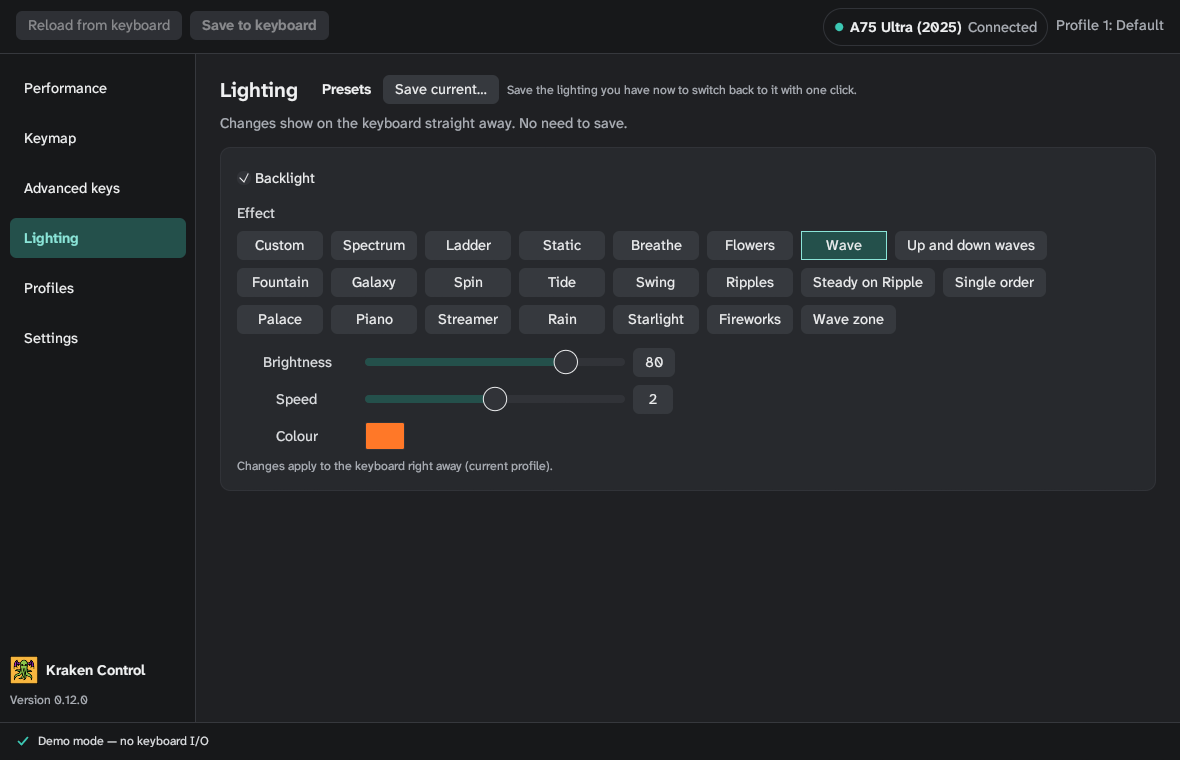
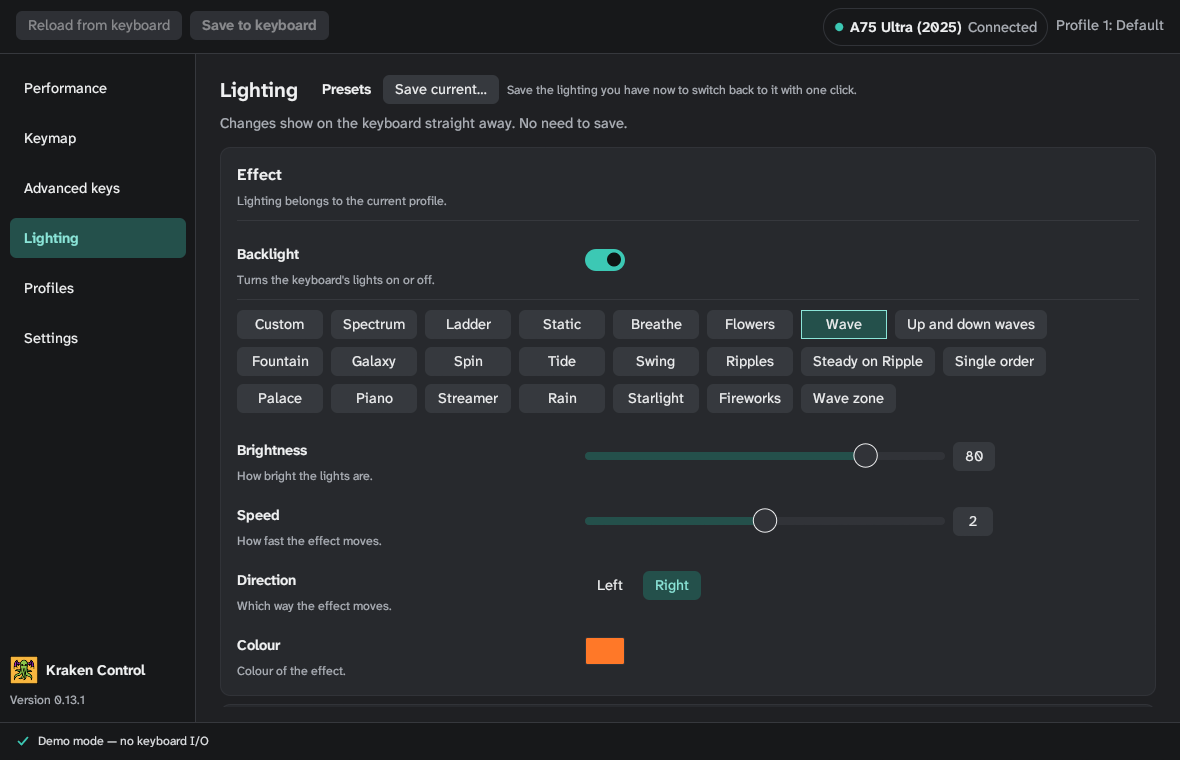
Release 0.13.1: date CHANGELOG, refresh 2025 A75 Ultra screenshots
Claude-Session: https://claude.ai/code/session_01UPyRyyRFiQ7m6pbWqDFTFT

diff --git a/docs/SESSION_SUMMARY.md b/docs/SESSION_SUMMARY.md
@@ -8,7 +8,7 @@ Current state and handoff. History is in PROGRESS.md.
 - Website live at https://ripdzl.github.io/Kraken-Control/ from `site/` (pages.yml). Light page + app Dark Grey surfaces, teal accent. Hero demo tabs: Simulate (drag keycap, gen-2 ranges) and Your keyboard (live keydown/keyup timeline; browsers can't read depth).
 - CI (`ci.yml`, Windows, stable Rust 1.99: clippy -D warnings + tests) green on `main`.
 - Local folder `drunkdeer-rs` on the user's PC is a git working copy (branch `dev`, no upstream set; `main` tracks origin/main).
-- Branch `dev` is on GitHub (pushed 2026-11-14 with the user's OK): unreleased work, ahead of `main`. Don't push `main`, tag, release or bump the version until the user says. Commits must use `228260327+ripDZL@users.noreply.github.com` (never the account email; GitHub email privacy is on).
+- Branch `dev` is on GitHub (pushed 2026-11-14 with the user's OK) for unreleased work; merge to `main`, tag, release or version bump only when the user says. Commits must use `228260327+ripDZL@users.noreply.github.com` (never the account email; GitHub email privacy is on).
 
 ## Workflow
 - Cloud: add_repo ripDZL/Kraken-Control, clone, edit, `cargo test` / clippy (cloud cargo 1.97; CI has newer lints), push `main`. User runs `git pull`.
@@ -30,12 +30,9 @@ Current state and handoff. History is in PROGRESS.md.
 - Gen-2 DKS / Rappy Snappy / One Key Switch editors and macros (2026-11-11): user ran build a655f15 on the 2025 A75 Ultra, "everything seems okay" (not itemised, no log). Check list in TODO "Web-driver parity".
 
 ## Handoff (2026-11-14)
-- GitHub `main` = 7d577ba (gen-2 live key depth). `origin/dev` = FN-layer advanced keys (f4bcc33), macro names (9f519ab), docs (f62ce98, 112fdfd: user's hardware OK for both), then the gen-2 UI overhaul commits of 2026-11-14.
-- Also 2026-11-14 on `dev`: six themes (Dark Grey, Dark, White, Colour-blind Dark / Light, Black-Plumb) and eight OFL fonts with a Font picker (Settings › Appearance); gen-2 Keymap outlines changed keys.
-- Version on `dev` = 0.13.1 (user: "this release will be 0.13.1"); CHANGELOG section `[0.13.1] - unreleased`. Not tagged, not merged to `main`; date the section and merge / tag only when the user says.
-- Done 2026-11-14 on `dev`: gen-2 Performance "Selected keys" / "Whole keyboard" cards (anti-shake + Adaptive Stable moved there from Settings), restyled gen-2 Keymap / Advanced (+ editors, macros) / Lighting / Settings. Demo-tested only.
-- User gets it with `git pull origin dev` on `dev` (their local `dev` = 112fdfd, a fast-forward); `git branch -u origin/dev` makes plain `git pull` work afterwards.
-- Next: user checks the TODO "Hardware (A75 Ultra 2025, `dev`)" UI list; optional same restyle for gen-1 Keymap / Advanced / Lighting editors. Merge to `main` / version bump / release only when the user says.
+- 0.13.1 merged to `main` (user: "lets update", 2026-11-14): fast-forward of `dev` (FN-layer advanced keys + macro keys, macro names, gen-2 UI overhaul, six themes, eight fonts). CHANGELOG `[0.13.1] - 2026-11-14`; README screenshots advanced-gen2 / lighting-gen2 retaken. `dev` = `main`.
+- Left for the user: push tag `v0.13.1` (session's git proxy refuses tags) -> Release workflow builds the DRAFT -> paste the CHANGELOG 0.13.1 entry into "What's new" -> Publish. Local copy: `git checkout main && git pull`.
+- Open checks: TODO "Hardware (A75 Ultra 2025, `dev`)" UI list and the Windows theme / font check.
 - Parked: Windows memory creep (TODO).
 
 ## Next

diff --git a/CHANGELOG.md b/CHANGELOG.md
@@ -2,7 +2,7 @@
 
 Notable changes to Kraken Control. Versions follow [Semantic Versioning](https://semver.org/).
 
-## [0.13.1] - unreleased
+## [0.13.1] - 2026-11-14
 
 - **Six themes:** Settings › Appearance now offers Dark Grey (default), Dark, White, Colour-blind Dark, Colour-blind Light and Black-Plumb. The colour-blind themes keep selected, unsaved, error and advanced-key colours apart with any type of colour blindness and mark selected keys with a thick outline. Changed keys on the Keymap page (2025 A75 Ultra) are now outlined, like on the original boards.
 - **Eight fonts:** Settings › Appearance › Font: Atkinson Hyperlegible Next, Inter, Roboto, Open Sans, Noto Sans, Fira Sans, Figtree and JetBrains Mono (all free, SIL Open Font License), or the theme's own font. Each is sized to take the same room, so every page fits in any font and theme. Theme and font are included in Kraken's back-up file.
